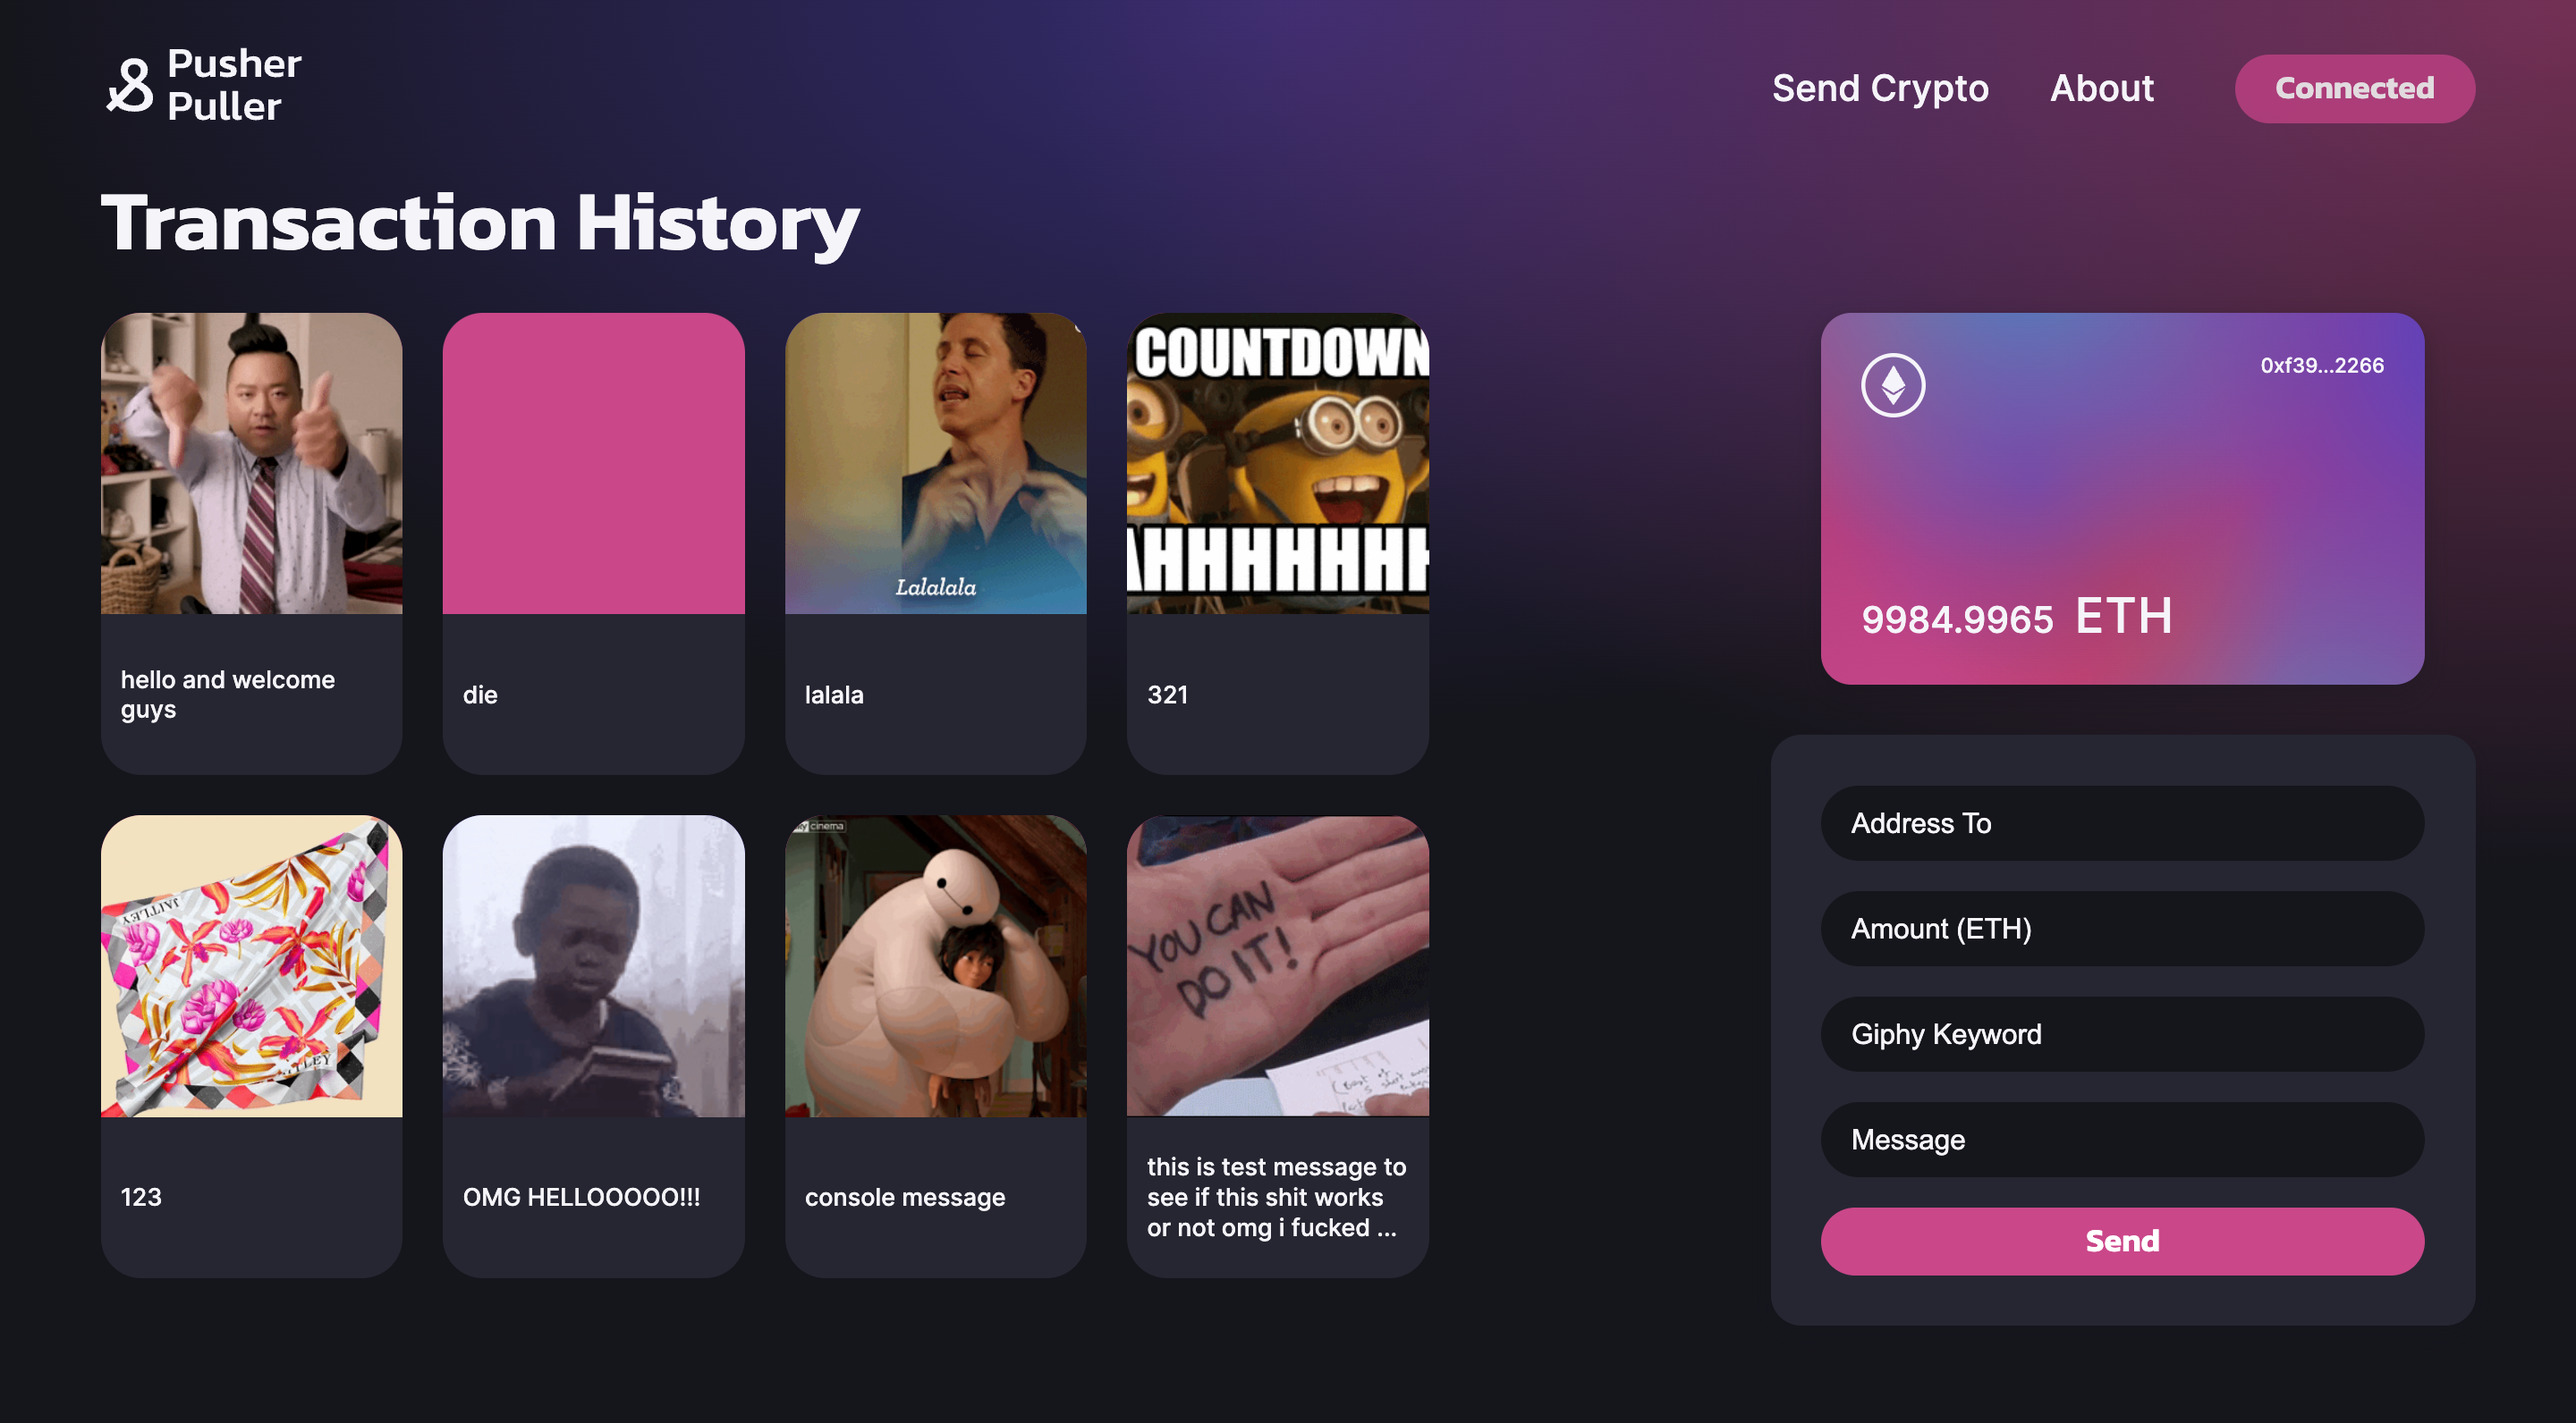
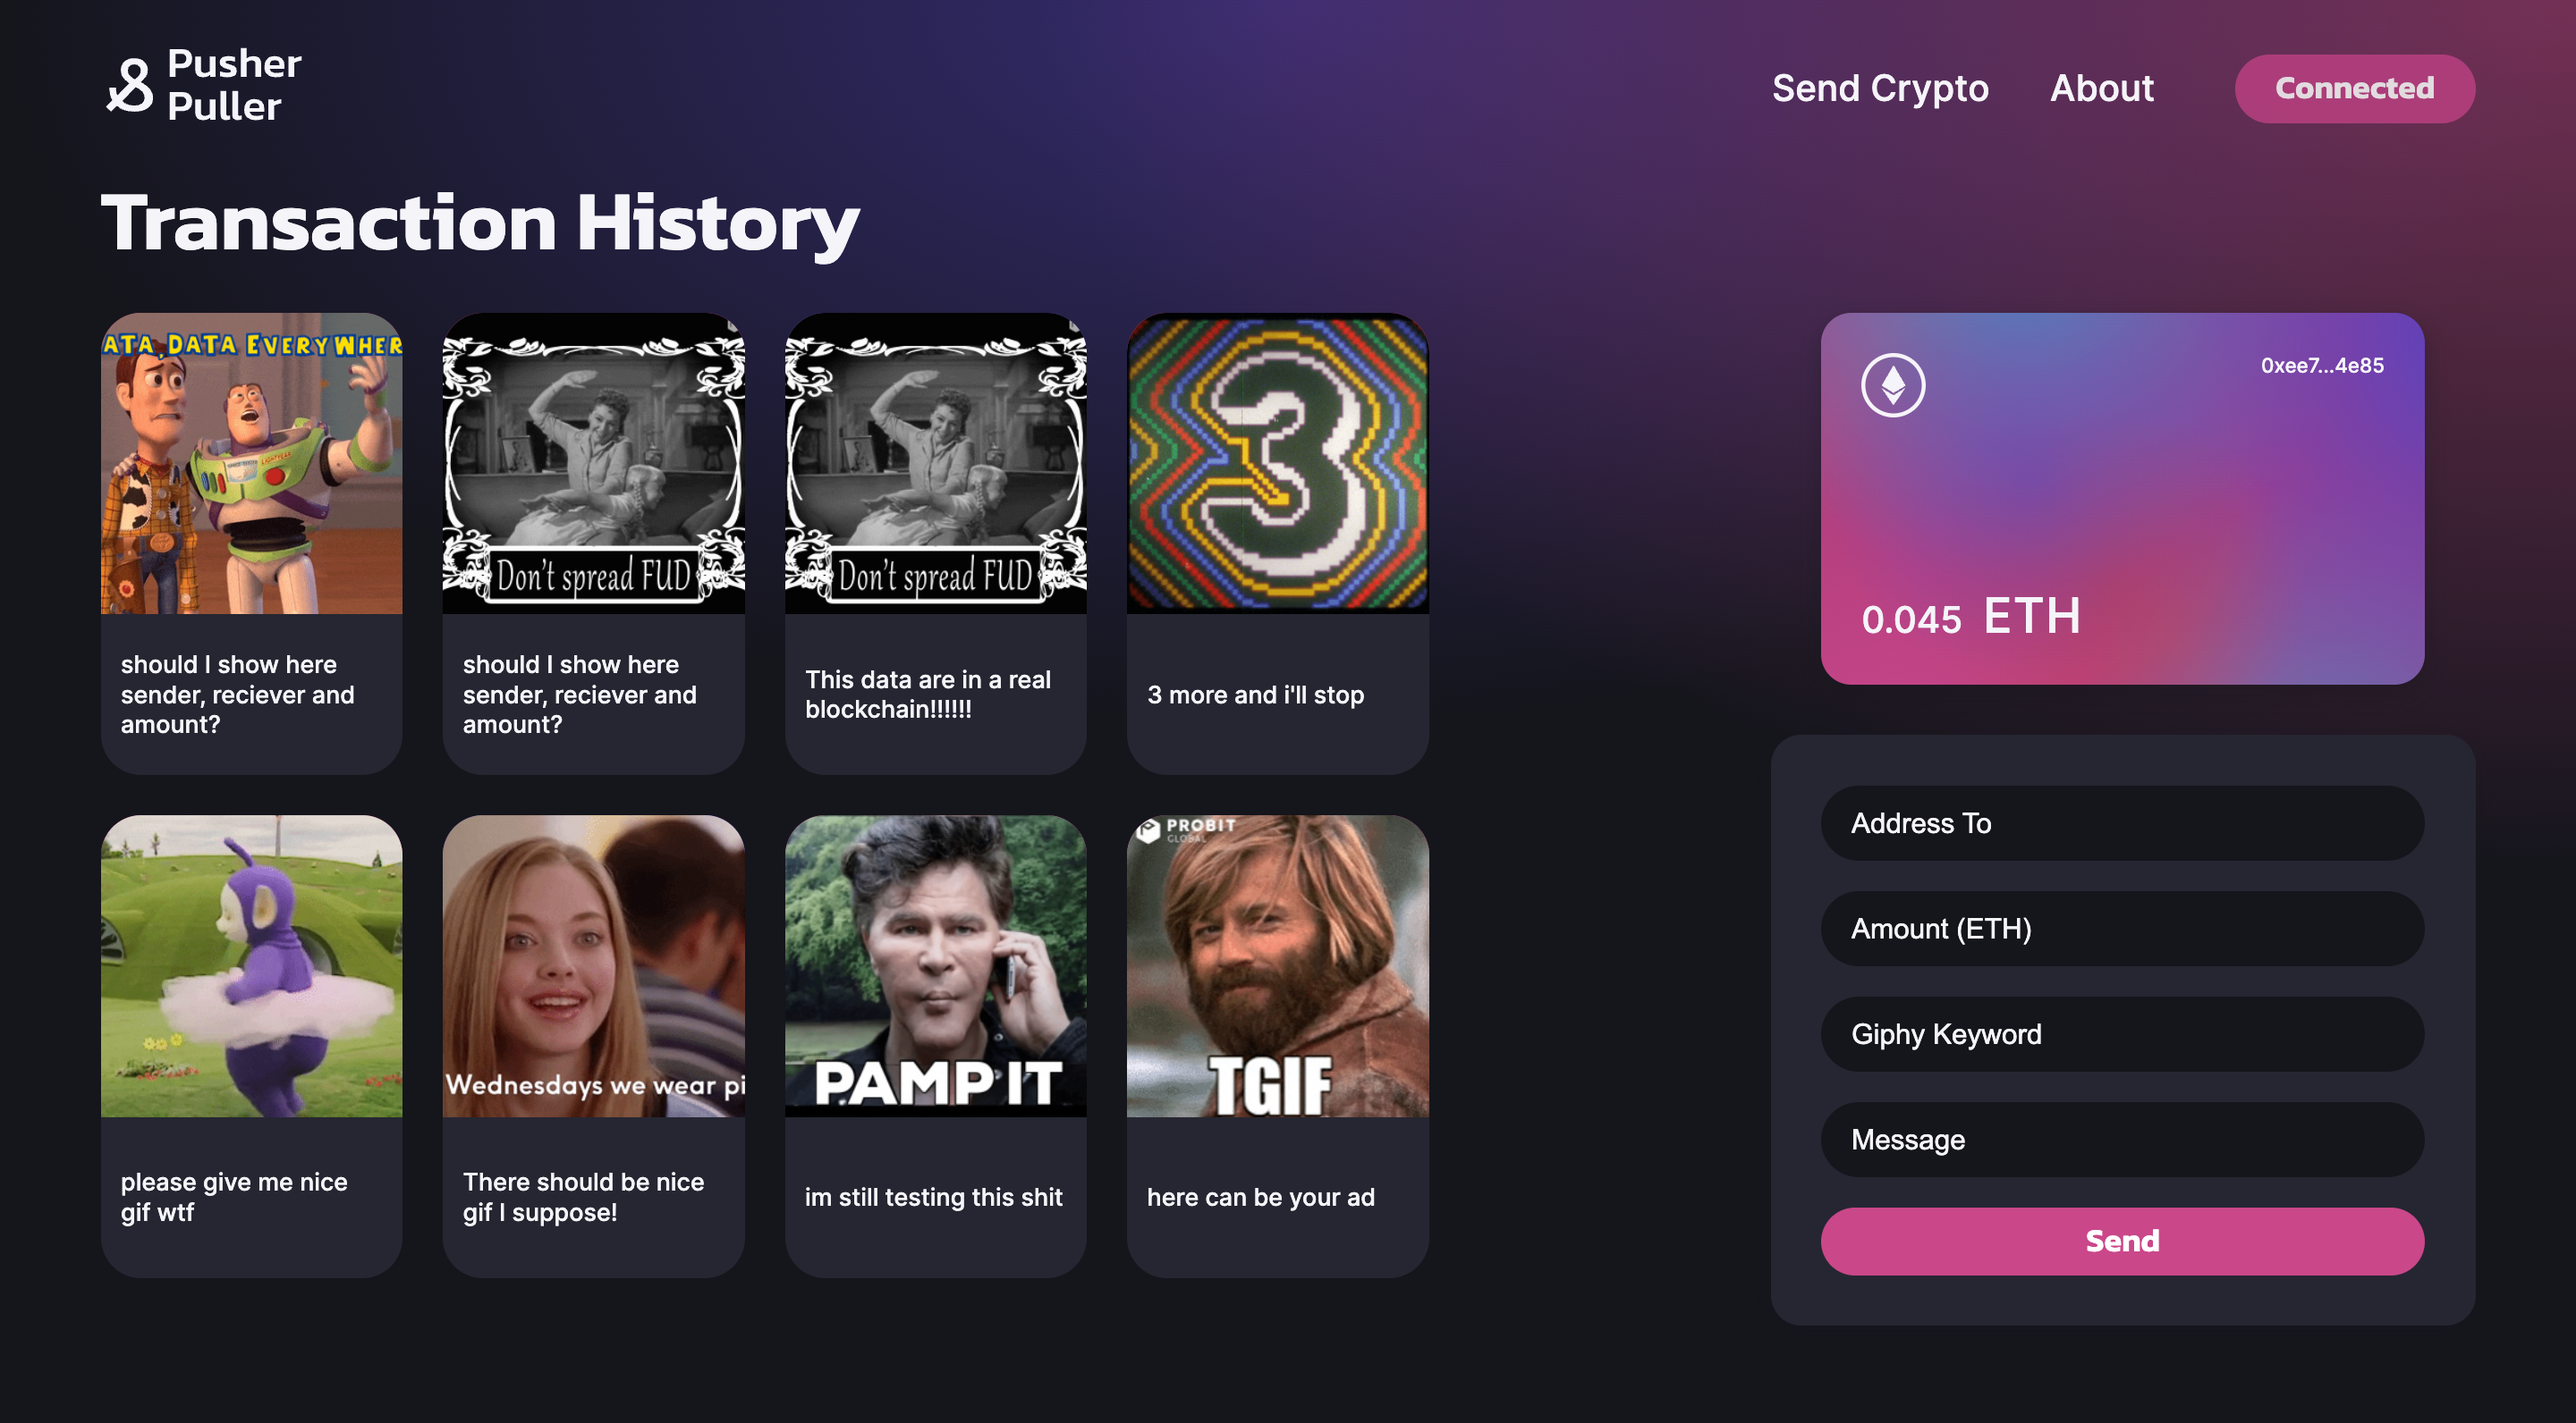
Finish main part of the project

diff --git a/client/src/state/modules/app.js b/client/src/state/modules/app.js
@@ -1,6 +1,6 @@
 import { createSlice } from '@reduxjs/toolkit';
 import { ethers } from 'ethers';
-import transactionsAddress from 'contracts/Transactions-contract-address.json';
+import transactionsAddresses from 'contracts/Transactions-contract-addresses.json';
 import transactionsArtifact from 'contracts/Transactions.json';
 
 const appSlice = createSlice({
@@ -9,6 +9,7 @@ const appSlice = createSlice({
     account: null,
     balance: null,
     transactions: null,
+    transactionsLoading: false,
     notification: null,
     notificationStatus: false,
     notificationTimer: null,
@@ -22,6 +23,9 @@ const appSlice = createSlice({
     },
     setTransactions: (state, action) => {
       state.transactions = action.payload;
+    },
+    setTransactionsLoading: (state, action) => {
+      state.transactionsLoading = action.payload;
     },
     unshiftTransaction: (state, action) => {
       if (!state.transactions) {
@@ -44,10 +48,6 @@ const appSlice = createSlice({
     resetConnection: (state, action) => {
       state.account = null;
       state.balance = null;
-      state.transactions = null;
-      state.notification = null;
-      state.notificationStatus = null;
-      state.notificationTimer = null;
     },
   },
 });
@@ -55,7 +55,6 @@ const appSlice = createSlice({
 export default appSlice.reducer;
 
 const { ethereum } = window;
-const DEPLOY_NETWORK_ID = '1337';
 const ERROR_CODE_REJECTED_BY_USER = 4001;
 const NOTIFICATION_DURATION = 5000;
 
@@ -76,8 +75,8 @@ export const triggerNotification =
 
 const checkWallet = () => ethereum;
 
-const checkNetwork = async () =>
-  (await ethereum.request({ method: 'net_version' })) === DEPLOY_NETWORK_ID;
+const checkNetwork = () =>
+  ethereum.networkVersion === process.env.REACT_APP_DEPLOY_NETWORK_ID;
 
 const handleAccountChanged = (account) => async (dispatch, getState) => {
   const provider = new ethers.providers.Web3Provider(ethereum);
@@ -93,7 +92,6 @@ const initializeAccounts = () => async (dispatch, getState) => {
 
   if (account) {
     dispatch(handleAccountChanged(account));
-    dispatch(getTransactionHistory());
   }
 };
 
@@ -102,27 +100,28 @@ export const initializeConnection = () => async (dispatch, getState) => {
     return;
   }
 
-  if (await checkNetwork()) {
+  if (checkNetwork()) {
     dispatch(initializeAccounts());
   }
 
+  dispatch(getTransactionHistory());
+
   window.ethereum.on('accountsChanged', ([newAccount]) => {
     if (!newAccount) {
-      console.log(123);
       dispatch(appSlice.actions.resetConnection());
     }
     dispatch(handleAccountChanged(newAccount));
   });
   window.ethereum.on('chainChanged', async (networkId) => {
     dispatch(appSlice.actions.resetConnection());
-    if (await checkNetwork(Number(networkId).toString())) {
+    if (checkNetwork(Number(networkId).toString())) {
       dispatch(initializeAccounts());
     }
   });
 
   const provider = new ethers.providers.Web3Provider(ethereum);
   const transactionsContract = new ethers.Contract(
-    transactionsAddress.Transactions,
+    transactionsAddresses[process.env.REACT_APP_DEPLOY_NETWORK_ID],
     transactionsArtifact.abi,
     provider.getSigner()
   );
@@ -155,8 +154,12 @@ export const connectWallet = () => async (dispatch, getState) => {
     return;
   }
 
-  if (!(await checkNetwork())) {
-    dispatch(triggerNotification('Please connect wallet to Localhost:8545.'));
+  if (!checkNetwork()) {
+    dispatch(
+      triggerNotification(
+        `Please connect wallet to the network with id ${process.env.REACT_APP_DEPLOY_NETWORK_ID}.`
+      )
+    );
     return;
   }
 
@@ -178,11 +181,13 @@ export const connectWallet = () => async (dispatch, getState) => {
 
 export const getTransactionHistory = () => async (dispatch, getState) => {
   try {
-    const provider = new ethers.providers.Web3Provider(ethereum);
+    const provider = new ethers.providers.JsonRpcProvider(
+      process.env.REACT_APP_DEPLOY_NETWORK_RPC_URL
+    );
     const transactionsContract = new ethers.Contract(
-      transactionsAddress.Transactions,
+      transactionsAddresses[process.env.REACT_APP_DEPLOY_NETWORK_ID],
       transactionsArtifact.abi,
-      provider.getSigner()
+      provider
     );
     const transactionHistory =
       await transactionsContract.getTransactionHistory();
@@ -220,7 +225,7 @@ export const addTransaction =
     try {
       const provider = new ethers.providers.Web3Provider(ethereum);
       const transactionsContract = new ethers.Contract(
-        transactionsAddress.Transactions,
+        transactionsAddresses[process.env.REACT_APP_DEPLOY_NETWORK_ID],
         transactionsArtifact.abi,
         provider.getSigner()
       );
@@ -232,14 +237,14 @@ export const addTransaction =
           value: ethers.utils.parseEther(value),
         }
       );
+      dispatch(
+        triggerNotification('Transaction was successfully added to blockchain.')
+      );
       await tx.wait();
       dispatch(
         appSlice.actions.setBalance(
           (await provider.getBalance(getState().app.account)).toString()
         )
-      );
-      dispatch(
-        triggerNotification('Transaction was successfully added to blockchain.')
       );
     } catch (error) {
       switch (error.code) {

diff --git a/smart_contract/scripts/deploy.js b/smart_contract/scripts/deploy.js
@@ -8,6 +8,7 @@ async function main() {
         'gets automatically created and destroyed every time. Use the Hardhat' +
         " option '--network localhost'"
     );
+    return;
   }
 
   const [deployer] = await ethers.getSigners();
@@ -33,15 +34,31 @@ async function main() {
 
 function saveFrontendFiles(contracts) {
   const contractsDir = path.resolve(__dirname, '../../client/src/contracts');
+  const networkId =
+    network.name === 'localhost'
+      ? config.networks.hardhat.chainId
+      : network.config.chainId;
 
   if (!fs.existsSync(contractsDir)) {
     fs.mkdirSync(contractsDir);
   }
 
   for (key in contracts) {
+    const addressesDir = path.resolve(
+      contractsDir,
+      key + '-contract-addresses.json'
+    );
+    let oldAddresses = {};
+    if (fs.existsSync(addressesDir)) {
+      oldAddresses = JSON.parse(fs.readFileSync(addressesDir));
+    }
     fs.writeFileSync(
-      path.resolve(contractsDir, key + '-contract-address.json'),
-      JSON.stringify({ [key]: contracts[key].address }, undefined, 2)
+      path.resolve(contractsDir, key + '-contract-addresses.json'),
+      JSON.stringify(
+        { ...oldAddresses, [networkId]: contracts[key].address },
+        undefined,
+        2
+      )
     );
 
     const ContractArtifact = artifacts.readArtifactSync(key);

diff --git a/client/src/components/SendCrypto/TransactionHistory/TransactionHistory.jsx b/client/src/components/SendCrypto/TransactionHistory/TransactionHistory.jsx
@@ -9,23 +9,19 @@ const TransactionHistory = (props) => {
   return (
     <TransactionHistoryContainer>
       <SectionTitle as="h3">Transaction History</SectionTitle>
-      {props.account ? (
-        props.transactions ? (
-          <TransactionsList>
-            {props.transactions?.map((item, index) => (
-              <Transaction
-                as="li"
-                key={index}
-                content={item.message}
-                keyword={item.keyword}
-              />
-            ))}
-          </TransactionsList>
-        ) : (
-          <p>There are no transactions yet.</p>
-        )
+      {props.transactions ? (
+        <TransactionsList>
+          {props.transactions?.map((item, index) => (
+            <Transaction
+              as="li"
+              key={index}
+              content={item.message}
+              keyword={item.keyword}
+            />
+          ))}
+        </TransactionsList>
       ) : (
-        <p>Please connect Metamask account to see the transaction history.</p>
+        <p>There are no transactions yet.</p>
       )}
     </TransactionHistoryContainer>
   );

diff --git a/client/src/components/About/About.jsx b/client/src/components/About/About.jsx
@@ -60,9 +60,9 @@ const AboutPage = (props) => {
       </AboutSlogan>
       <p>
         Open source project created for the purpose of learning Web 3.0. It uses
-        React, ethers.js, Alchemy, WalletConnect etc. Project is created
-        completely from scratch only using some references. Your can find the
-        source code{' '}
+        React, ethers.js, Alchemy, WalletConnect etc. Project works over Ropsten
+        Test Network. It is created completely from scratch only using some
+        references. Your can find the source code{' '}
         <a
           href="https://github.com/slamach/pusher-puller"
           target="_blank"
@@ -70,7 +70,7 @@ const AboutPage = (props) => {
         >
           here
         </a>
-        . Please note that you are sending real crypto.
+        .
       </p>
       <AboutButtonContainer>
         <li>

diff --git a/smart_contract/hardhat.config.js b/smart_contract/hardhat.config.js
@@ -1,4 +1,5 @@
 require('@nomiclabs/hardhat-waffle');
+require('dotenv').config();
 
 task('accounts', 'Prints the list of accounts', async (taskArgs, hre) => {
   const accounts = await hre.ethers.getSigners();
@@ -10,9 +11,15 @@ task('accounts', 'Prints the list of accounts', async (taskArgs, hre) => {
 
 module.exports = {
   solidity: '0.8.4',
+  defaultNetwork: 'hardhat',
   networks: {
     hardhat: {
       chainId: 1337,
+    },
+    ropsten: {
+      url: process.env.ROPSTEN_RPC_URL,
+      accounts: [process.env.PRIVATE_KEY],
+      chainId: 3,
     },
   },
 };

diff --git a/smart_contract/README.md b/smart_contract/README.md
@@ -1,6 +1,7 @@
 # Pusher & Puller (Smart Contract)
 
 ## Installation and Usage
+
 ```
 npm install
 ```
@@ -9,17 +10,28 @@ To make the pre-commit hook work, you need to run `npm install` when the project
 
 If the project is initialized as a repository later, you need to additionally execute `npm run prepare`.
 
+Also you need to make your own `.env` file from `.env.example` to deploy it to Ropsten Test Network.
+
 ### Test smart contracts
+
 ```
 npm run test
 ```
 
-### Run a node
+### Run local node
+
 ```
 npm run node
 ```
 
-### Deploy smart contracts
+### Deploy smart contracts to local node
+
 ```
-npm run deploy
+npm run deploy:localhost
+```
+
+### Deploy smart contracts to Ropsten Test Network
+
+```
+npm run deploy:ropsten
 ```

diff --git a/README.md b/README.md
@@ -4,11 +4,13 @@
 ![About section screenshot](/doc/screenshot2.png)
 
 ## About the Project
-Web 3.0 project created for learning purposes.  
 
-You can authorize with Metamask wallet, send ETH, attach messages and images from [Giphy](https://giphy.com).
+Web 3.0 project created for learning purposes.
+
+You can authorize with Metamask wallet, send ETH, attach messages and images from [Giphy](https://giphy.com). Deployed project works over Ropsten Test Network.
 
 ### Built With
+
 - React
 - Redux
 - Ethers
@@ -16,6 +18,7 @@ You can authorize with Metamask wallet, send ETH, attach messages and images fro
 - Hardhat
 
 ## Contact
+
 Dmitry Sviridov  
 Telegram: [slamach](https://t.me/slamach)  
 Email: sviridov.dvv@gmail.com

diff --git a/client/README.md b/client/README.md
@@ -9,7 +9,7 @@ To make the pre-commit hook work, you need to run `npm install` when the project
 
 If the project is initialized as a repository later, you need to additionally execute `npm run prepare`.
 
-Also you need to make your own `.env` or `.env.local` file from `.env.example`. Currently there is only a Giphy API key.
+Also you need to make your own `.env` file from `.env.example`.
 
 ### Development
 ```
